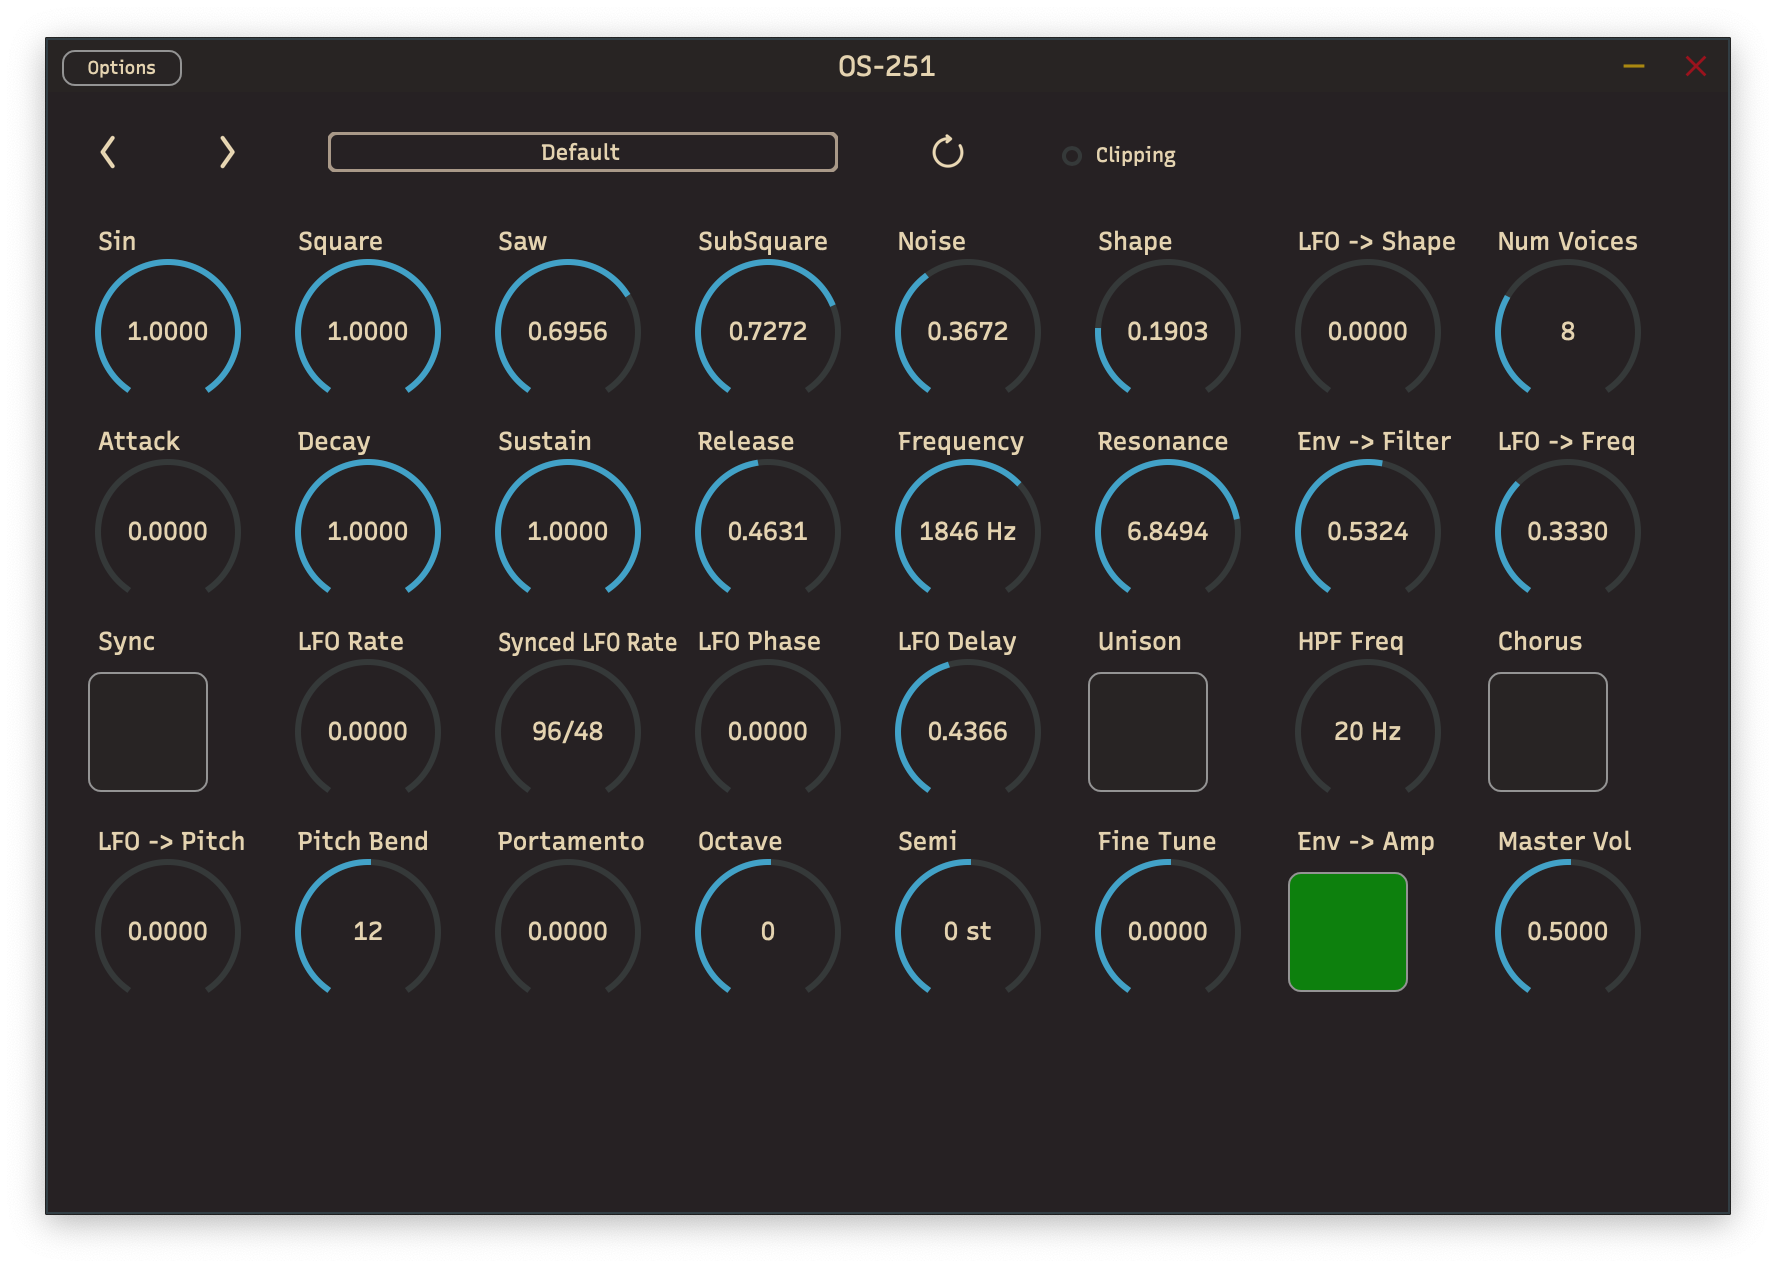
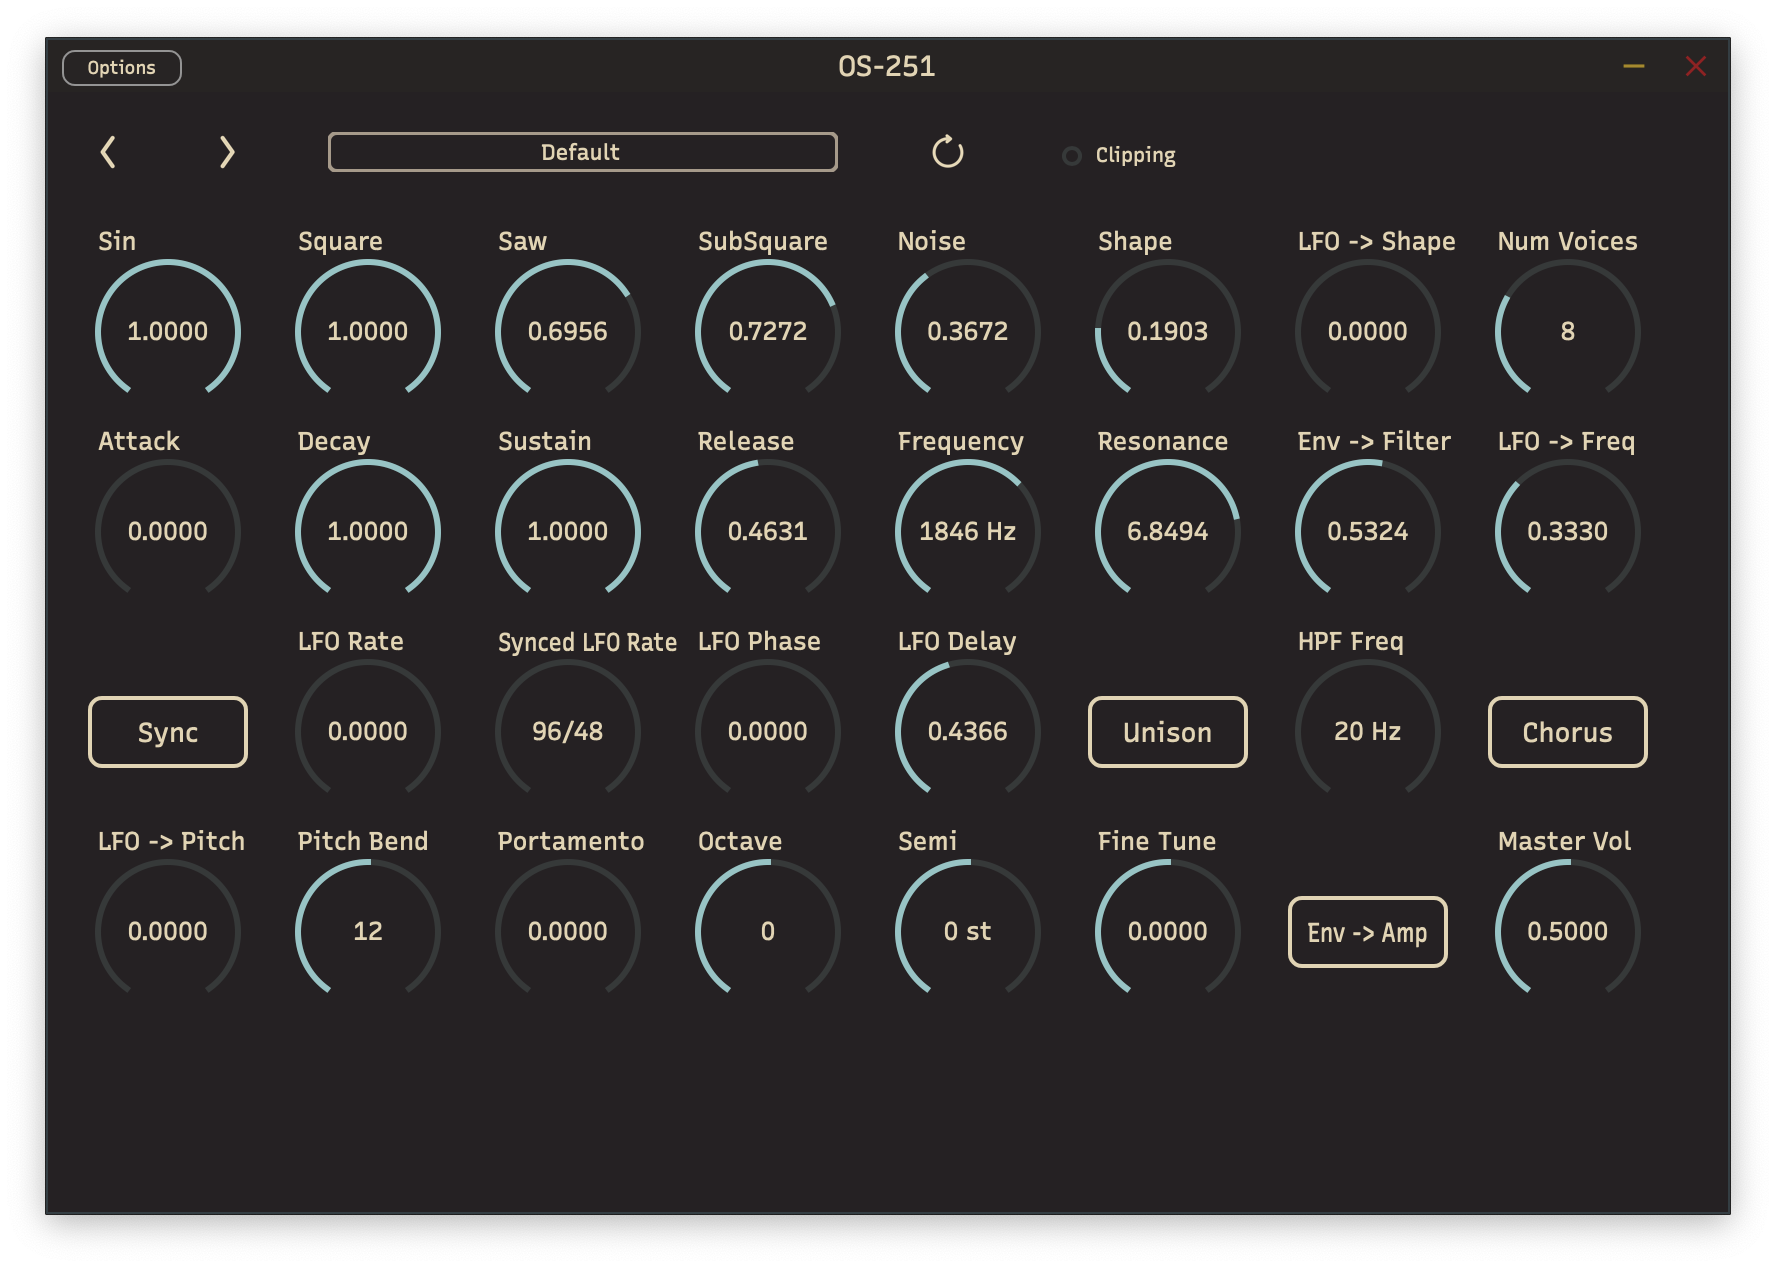
Update button UI

diff --git a/src/PluginEditor.cpp b/src/PluginEditor.cpp
@@ -17,7 +17,8 @@ Os251AudioProcessorEditor::Os251AudioProcessorEditor (Os251AudioProcessor& proc,
       synthUi (_synthUi),
       valueTreeState (vts),
       presetManagerView (presetManager),
-      clippingIndicatorView (_synthUi)
+      clippingIndicatorView (_synthUi),
+      buttonParamLaf()
 {
     auto& processorParams = audioProcessor.getParameters();
 
@@ -74,15 +75,17 @@ Os251AudioProcessorEditor::Os251AudioProcessorEditor (Os251AudioProcessor& proc,
             buttonLabels.try_emplace (paramName, std::make_unique<juce::Label>());
             buttonAttachment.try_emplace (paramName, std::make_unique<ButtonAttachment> (valueTreeState, paramName, *buttons[paramName]));
 
-            // buttons[paramName]->setLookAndFeel (&largeKnobLookAndFeel);
-            // buttons[paramName]->setColour (juce::TextButton::buttonColourId, juce::Colours::red);
-            buttons[paramName]->setColour (juce::TextButton::buttonOnColourId, juce::Colours::green);
-            buttons[paramName]->setButtonText ("");
+            buttons[paramName]->setColour (juce::TextButton::textColourOnId, juce::Colour (onsen::colors::primaryColor));
+            buttons[paramName]->setColour (juce::TextButton::textColourOffId, juce::Colour (onsen::colors::textColor));
+            buttons[paramName]->setColour (juce::TextButton::buttonOnColourId, juce::Colour (onsen::colors::backgroundColorDark));
+            buttons[paramName]->setColour (juce::TextButton::buttonColourId, juce::Colour (onsen::colors::backgroundColorDark));
+            buttons[paramName]->setButtonText (valueTreeState.getParameter (paramName)->name);
             buttonLabels[paramName]->setText (valueTreeState.getParameter (paramName)->name, juce::dontSendNotification);
             addAndMakeVisible (*buttons[paramName]);
 
             buttons[paramName]->setClickingTogglesState (true);
-            addAndMakeVisible (*buttonLabels[paramName]);
+            buttons[paramName]->setLookAndFeel (&buttonParamLaf);
+            // addAndMakeVisible (*buttonLabels[paramName]);
         }
     }
 
@@ -120,14 +123,6 @@ void Os251AudioProcessorEditor::resized()
 
     clippingIndicatorView.setBounds (500, 20, clippingIndicatorViewWidth, 100);
 
-    // s_freq.setBounds (20, 80, 100, 100);
-    // s_freq.setTextBoxStyle (juce::Slider::TextBoxBelow, false, 100, 30);
-    // s_freqLabel.setBounds (20, 60, 100, 30);
-
-    // constexpr int distX = 200;
-    // b_chorusOn.setBounds (20 + distX, 90, 60, 40);
-    // b_chorusOnLabel.setBounds (20 + distX, 60, 100, 30);
-
     constexpr unsigned int numCol = 8;
     constexpr unsigned int initX = 20;
     constexpr unsigned int initY = 60;
@@ -159,10 +154,10 @@ void Os251AudioProcessorEditor::resized()
         }
         else /*(p.second == ParamType::BUTTON)*/
         {
-            constexpr unsigned int buttonMargin = 40;
+            constexpr unsigned int buttonMargin = 20;
             // b_chorusOn.setBounds (20 + distX, 90, 60, 40);
             // b_chorusOnLabel.setBounds (20 + distX, 60, 100, 30);
-            buttons[paramName]->setBounds (x, y + 30, paramWidth - buttonMargin, paramHeight - buttonMargin);
+            buttons[paramName]->setBounds (x, y + 20, paramWidth - buttonMargin, paramHeight - buttonMargin);
             buttonLabels[paramName]->setBounds (x, y, textEntryBoxWidth, textEntryBoxHeight);
         }
     }

diff --git a/src/views/ButtonParamLookAndFeel.h b/src/views/ButtonParamLookAndFeel.h
@@ -1,0 +1,51 @@
+/*
+  ==============================================================================
+
+   ButtonParamLookAndFeel
+
+  ==============================================================================
+*/
+
+#pragma once
+
+#include "colors.h"
+#include <JuceHeader.h>
+
+namespace onsen
+{
+//==============================================================================
+class ButtonParamLookAndFeel : public juce::LookAndFeel_V4
+{
+    using Laf = juce::LookAndFeel_V4;
+
+public:
+    ButtonParamLookAndFeel()
+    {
+    }
+
+    ~ButtonParamLookAndFeel() {}
+
+    void drawButtonBackground (juce::Graphics& g, juce::Button& button, const juce::Colour& backgroundColour, bool isMouseOverButton, bool isButtonDown) override
+    {
+        auto bounds = button.getLocalBounds().toFloat();
+        auto buttonBounds = bounds.withHeight (36).withCentre (bounds.getCentre());
+        auto baseColour = backgroundColour;
+
+        if (isMouseOverButton)
+            baseColour = baseColour.brighter (0.1f);
+
+        if (isButtonDown)
+            baseColour = baseColour.darker (0.2f);
+
+        g.setColour (baseColour);
+        g.fillRoundedRectangle (buttonBounds, 6.0f);
+
+        if (button.getToggleStateValue() == true)
+            g.setColour (button.findColour (juce::TextButton::textColourOnId));
+        else
+            g.setColour (button.findColour (juce::TextButton::textColourOffId));
+
+        g.drawRoundedRectangle (buttonBounds.reduced (1.0f), 6.0f, 2.0f);
+    }
+};
+} // namespace onsen

diff --git a/src/PluginEditor.h b/src/PluginEditor.h
@@ -10,6 +10,7 @@
 
 #include "JuceAudioProcessorState.h"
 #include "PluginProcessor.h"
+#include "views/ButtonParamLookAndFeel.h"
 #include "views/ClippingIndicatorView.h"
 #include "views/PresetManagerView.h"
 #include <JuceHeader.h>
@@ -66,6 +67,7 @@ private:
     juce::TextButton b_chorusOn;
     juce::Label b_chorusOnLabel;
     std::unique_ptr<ButtonAttachment> b_chorusOnAttachment;
+    onsen::ButtonParamLookAndFeel buttonParamLaf;
 
     std::vector<std::pair<std::string, ParamType>> paramLayout {
         { "sinGain", ParamType::SLIDER },
